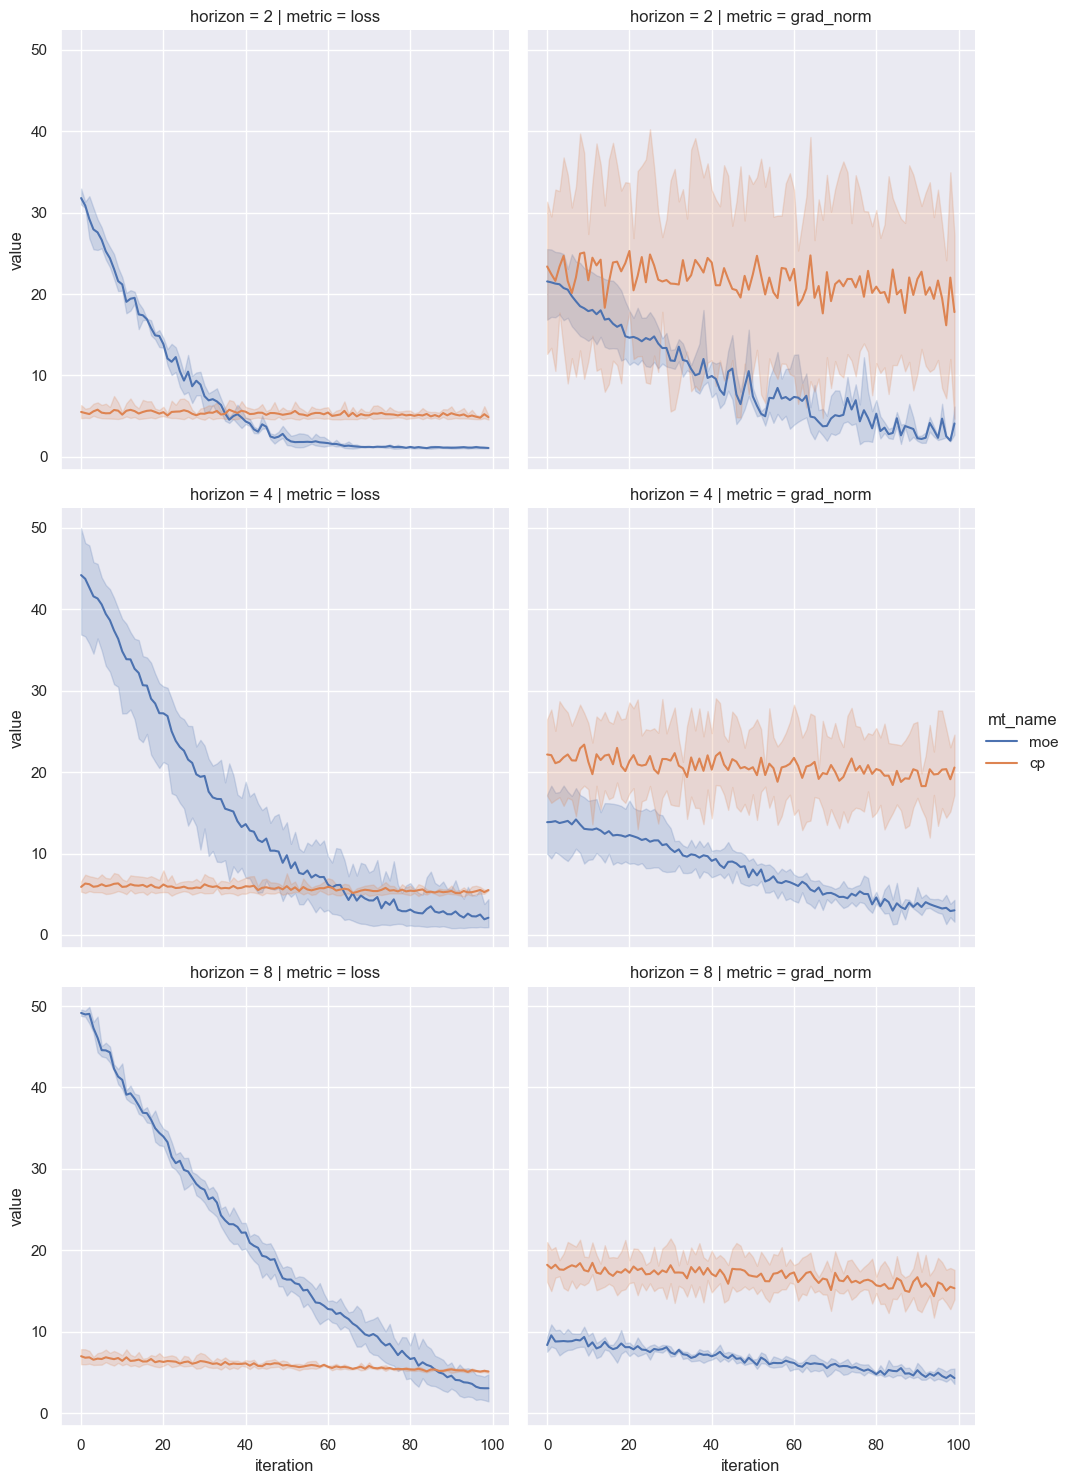
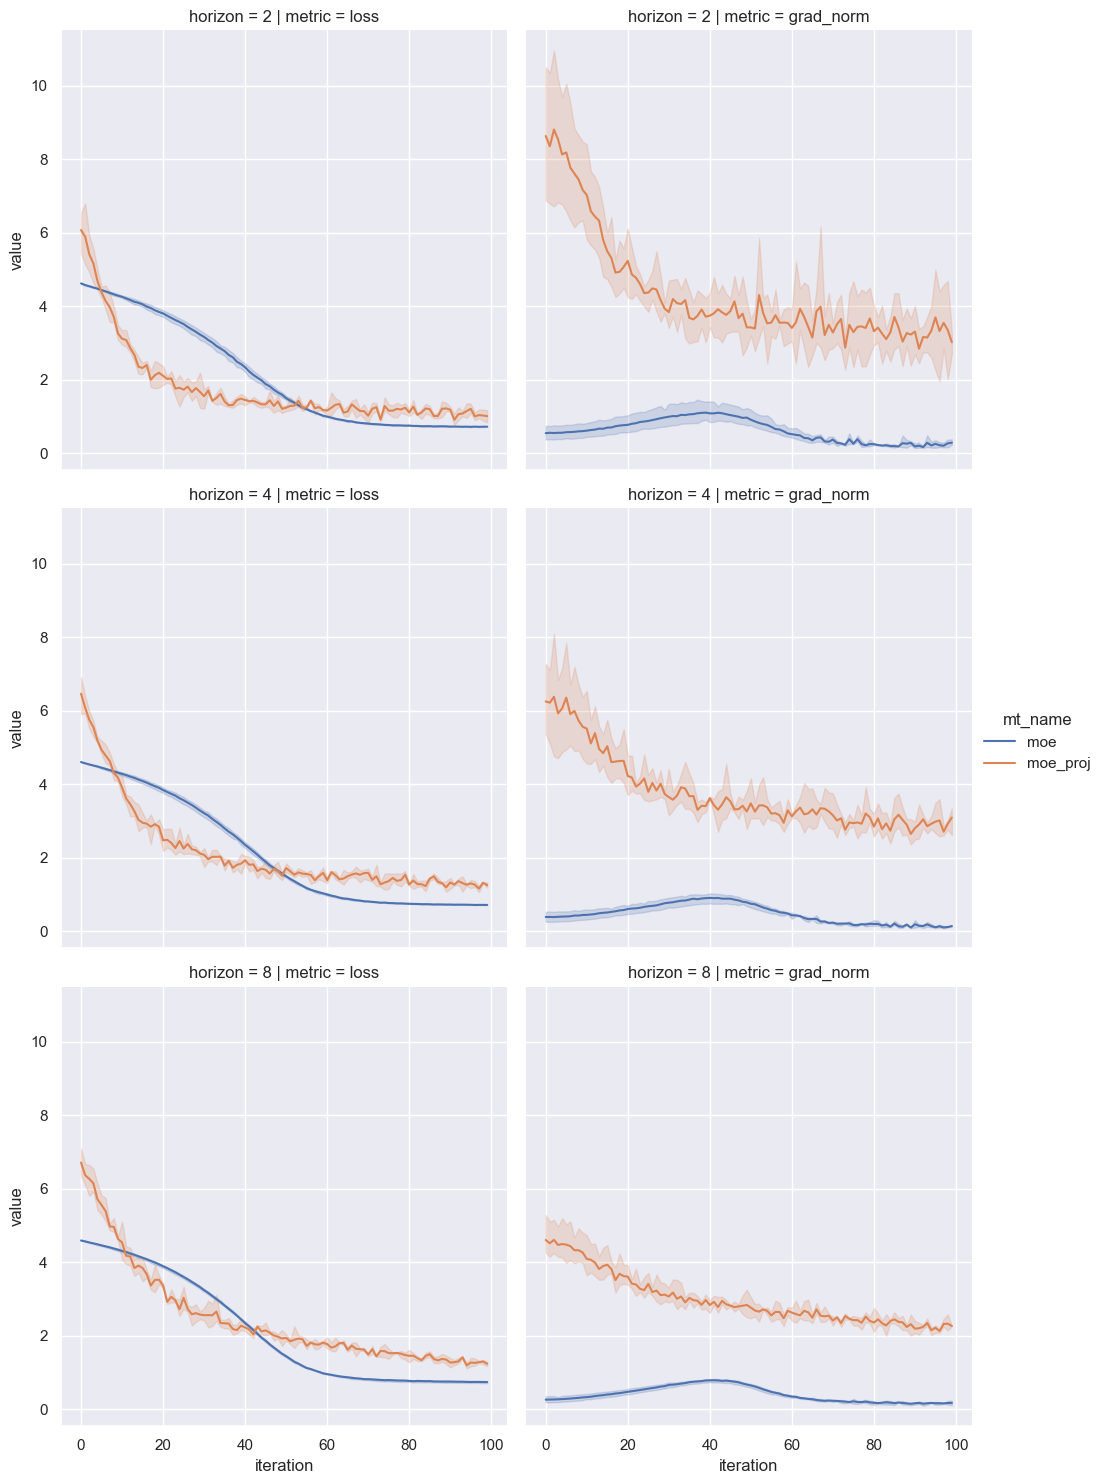
Assert y has correct horizon

diff --git a/mtp/mheads/moe_proj.py b/mtp/mheads/moe_proj.py
@@ -48,7 +48,7 @@ def log_prob_moe(
     return torch.logsumexp(lsm_alpha + lsm_cp_cores, dim=-1)
 
 
-log_prob_moe_batched = torch.func.vmap(log_prob_moe, in_dims=(0, 0, 0, None))
+log_prob_moe_batched = torch.func.vmap(log_prob_moe, in_dims=(0, 0, 0, None))  # type: ignore
 
 
 class MoEProjector(AbstractDisributionHead):
@@ -89,11 +89,14 @@ class MoEProjector(AbstractDisributionHead):
             self.config.d_output,
         )
 
+        # since w_cp: (D) -> (R, H, D) i.e. fan in is D
+        std_fan_in = torch.sqrt(torch.tensor(2.0)) / D**0.5
+
         # === params
         self.w_alpha = torch.nn.Linear(D, R)
-        self._w_cp_params = torch.nn.Parameter(torch.randn(R, H, D, D))
+        self._w_cp_params = torch.nn.Parameter(torch.randn(R, H, D, D) * std_fan_in)
         self._b_cp_params = torch.nn.Parameter(torch.randn(R, H, D))
-        self.decoder = torch.nn.Parameter(torch.randn(V, D))
+        self.decoder = torch.nn.Parameter(torch.randn(V, D) * std_fan_in)
 
     def w_cp_params(self, x: torch.Tensor) -> torch.Tensor:
         return torch.einsum(
@@ -115,20 +118,29 @@ class MoEProjector(AbstractDisributionHead):
         y: Optional[torch.Tensor] = None,
         ignore_index: int = -100,
     ):
-        B, H, V = x.shape[0], self.config.horizon, self.config.d_output
+        # Input validation
+        assert x.ndim == 2, "x must be 2D (B, D)"
+        assert y is None or y.ndim == 2, "y must be 2D (B, H)"
+        assert (
+            y is None or y.size(1) == self.config.horizon
+        ), f"Incorrect y horizon, must of shape (B, {self.config.horizon}) but got {y.shape}"
+
+        B, V = x.shape[0], self.config.d_output
+        H = self.config.horizon
         loss = None
         if y is not None:
             # NOTE: this is not optimal, as it will over-filter samples
             # filter out entire sample if any of the H y vals are ignore_index
             mask = (y != ignore_index).all(dim=-1)  # (B,)
             alpha_tilde = self.w_alpha(x[mask])  # (B, R)
-            p_dists_tilde = self.w_cp_params(x[mask])
-            loss = -log_prob_moe_batched(
-                y[mask],  # (B, H)
-                alpha_tilde,
-                p_dists_tilde,
-                self.decoder,
-            ).mean() * (1 / self.config.horizon)
+            p_dists_tilde = self.w_cp_params(x[mask])  # (B, R, H, D)
+            if y[mask].shape[0] > 0:
+                loss = -log_prob_moe_batched(
+                    y[mask],  # (B, H)
+                    alpha_tilde,
+                    p_dists_tilde,
+                    self.decoder,
+                ).mean() * (1 / H)
 
         return AbstractDisributionHeadOutput(
             logits=torch.randn(B, H, V),

diff --git a/mtp/mheads/moe.py b/mtp/mheads/moe.py
@@ -51,7 +51,7 @@ def log_prob_moe(
     return torch.logsumexp(lsm_alpha + lsm_cp_cores, dim=-1)
 
 
-log_prob_moe_batched = torch.func.vmap(log_prob_moe, in_dims=(0, 0, None, None))
+log_prob_moe_batched = torch.func.vmap(log_prob_moe, in_dims=(0, 0, None, None))  # type: ignore
 
 
 class MoE(AbstractDisributionHead):
@@ -80,9 +80,10 @@ class MoE(AbstractDisributionHead):
         )
 
         # === params
+        std_fan_in = torch.sqrt(torch.tensor(2.0)) / D**0.5
         self.w_alpha = torch.nn.Linear(D, R)
-        self.cp_params = torch.nn.Parameter(torch.randn(R, H, D))
-        self.decoder = torch.nn.Parameter(torch.randn(V, D))
+        self.cp_params = torch.nn.Parameter(torch.randn(R, H, D) * std_fan_in)
+        self.decoder = torch.nn.Parameter(torch.randn(V, D) * std_fan_in)
 
     def freeze_decoder(self):
         raise NotImplementedError("freeze_decoder not implemented")
@@ -99,11 +100,17 @@ class MoE(AbstractDisributionHead):
         y: Optional[torch.Tensor] = None,
         ignore_index: int = -100,
     ):
+        # Input validation
+        assert x.ndim == 2, "x must be 2D (B, D)"
+        assert y is None or y.ndim == 2, "y must be 2D (B, H)"
+        assert (
+            y is None or y.size(1) == self.config.horizon
+        ), f"Incorrect y horizon, must of shape (B, {self.config.horizon}) but got {y.shape}"
 
-        B, H, V = x.shape[0], self.config.horizon, self.config.d_output
+        B, V = x.shape[0], self.config.d_output
+        H = self.config.horizon
         loss = None
         if y is not None:
-            B, H = y.shape
             # NOTE: this is not optimal, as it will over-filter samples
             # filter out entire sample if any of the H y vals are ignore_index
             mask = (y != ignore_index).all(dim=-1)  # (B,)
@@ -113,7 +120,7 @@ class MoE(AbstractDisributionHead):
                 loss = -log_prob_moe_batched(
                     y[mask],  # (B, H)
                     alpha_tilde,
-                    p_dists_tilde,
+                    p_dists_tilde[:, :H],
                     self.decoder,
                 ).mean() * (1 / H)
 

diff --git a/scripts/train_mheads.py b/scripts/train_mheads.py
@@ -109,6 +109,8 @@ def plot_training_metrics(
 
 if __name__ == "__main__":
     lr = 1e-3
+    d_model = 512
+    d_output = 10_1000
     configs = (
         [
             {
@@ -116,10 +118,10 @@ if __name__ == "__main__":
                 "batch_size": 32,
                 "horizon": h,
                 "rank": r,
-                "d_model": 512,
-                "d_output": 100,
+                "d_model": d_model,
+                "d_output": d_output,
             }
-            for r, h in itertools.product([2, 4, 8], [2, 4, 8])
+            for r, h, seed in itertools.product([2, 4, 8], [2, 4, 8], [0])
         ]
         + [
             {
@@ -127,10 +129,10 @@ if __name__ == "__main__":
                 "batch_size": 32,
                 "horizon": h,
                 "rank": r,
-                "d_model": 512,
-                "d_output": 100,
+                "d_model": d_model,
+                "d_output": d_output,
             }
-            for r, h in itertools.product([2, 4, 8], [2, 4, 8])
+            for r, h, seed in itertools.product([2, 4, 8], [2, 4, 8], [0])
         ]
         # + [
         #     {

diff --git a/tests/test_mheads.py b/tests/test_mheads.py
@@ -7,9 +7,10 @@ from mtp.mheads._abc import AbstractDisributionHeadConfig
 
 class TestMHeads(unittest.TestCase):
     def test_moe(self):
-        B, T, R, H, D, V = 1, 16, 4, 8, 512, 30000
+        # B_, T_, D_ (1, 3, 384)
+        B, T, R, H, D, V = 1, 4, 4, 8, 384, 30000
 
-        for model_name in ["moe", "moe_proj"]:
+        for model_name in ["moe_proj"]:
             model = MHEADS[model_name](
                 AbstractDisributionHeadConfig(horizon=H, rank=R, d_model=D, d_output=V)
             )
@@ -28,7 +29,7 @@ class TestMHeads(unittest.TestCase):
             output_forward = model(x, y)
             self.assertEqual(
                 output_forward.logits.shape,
-                (B, H, V),
+                (B, min(H, T), V),
                 "logits should be (B, H, V)",
             )
 
